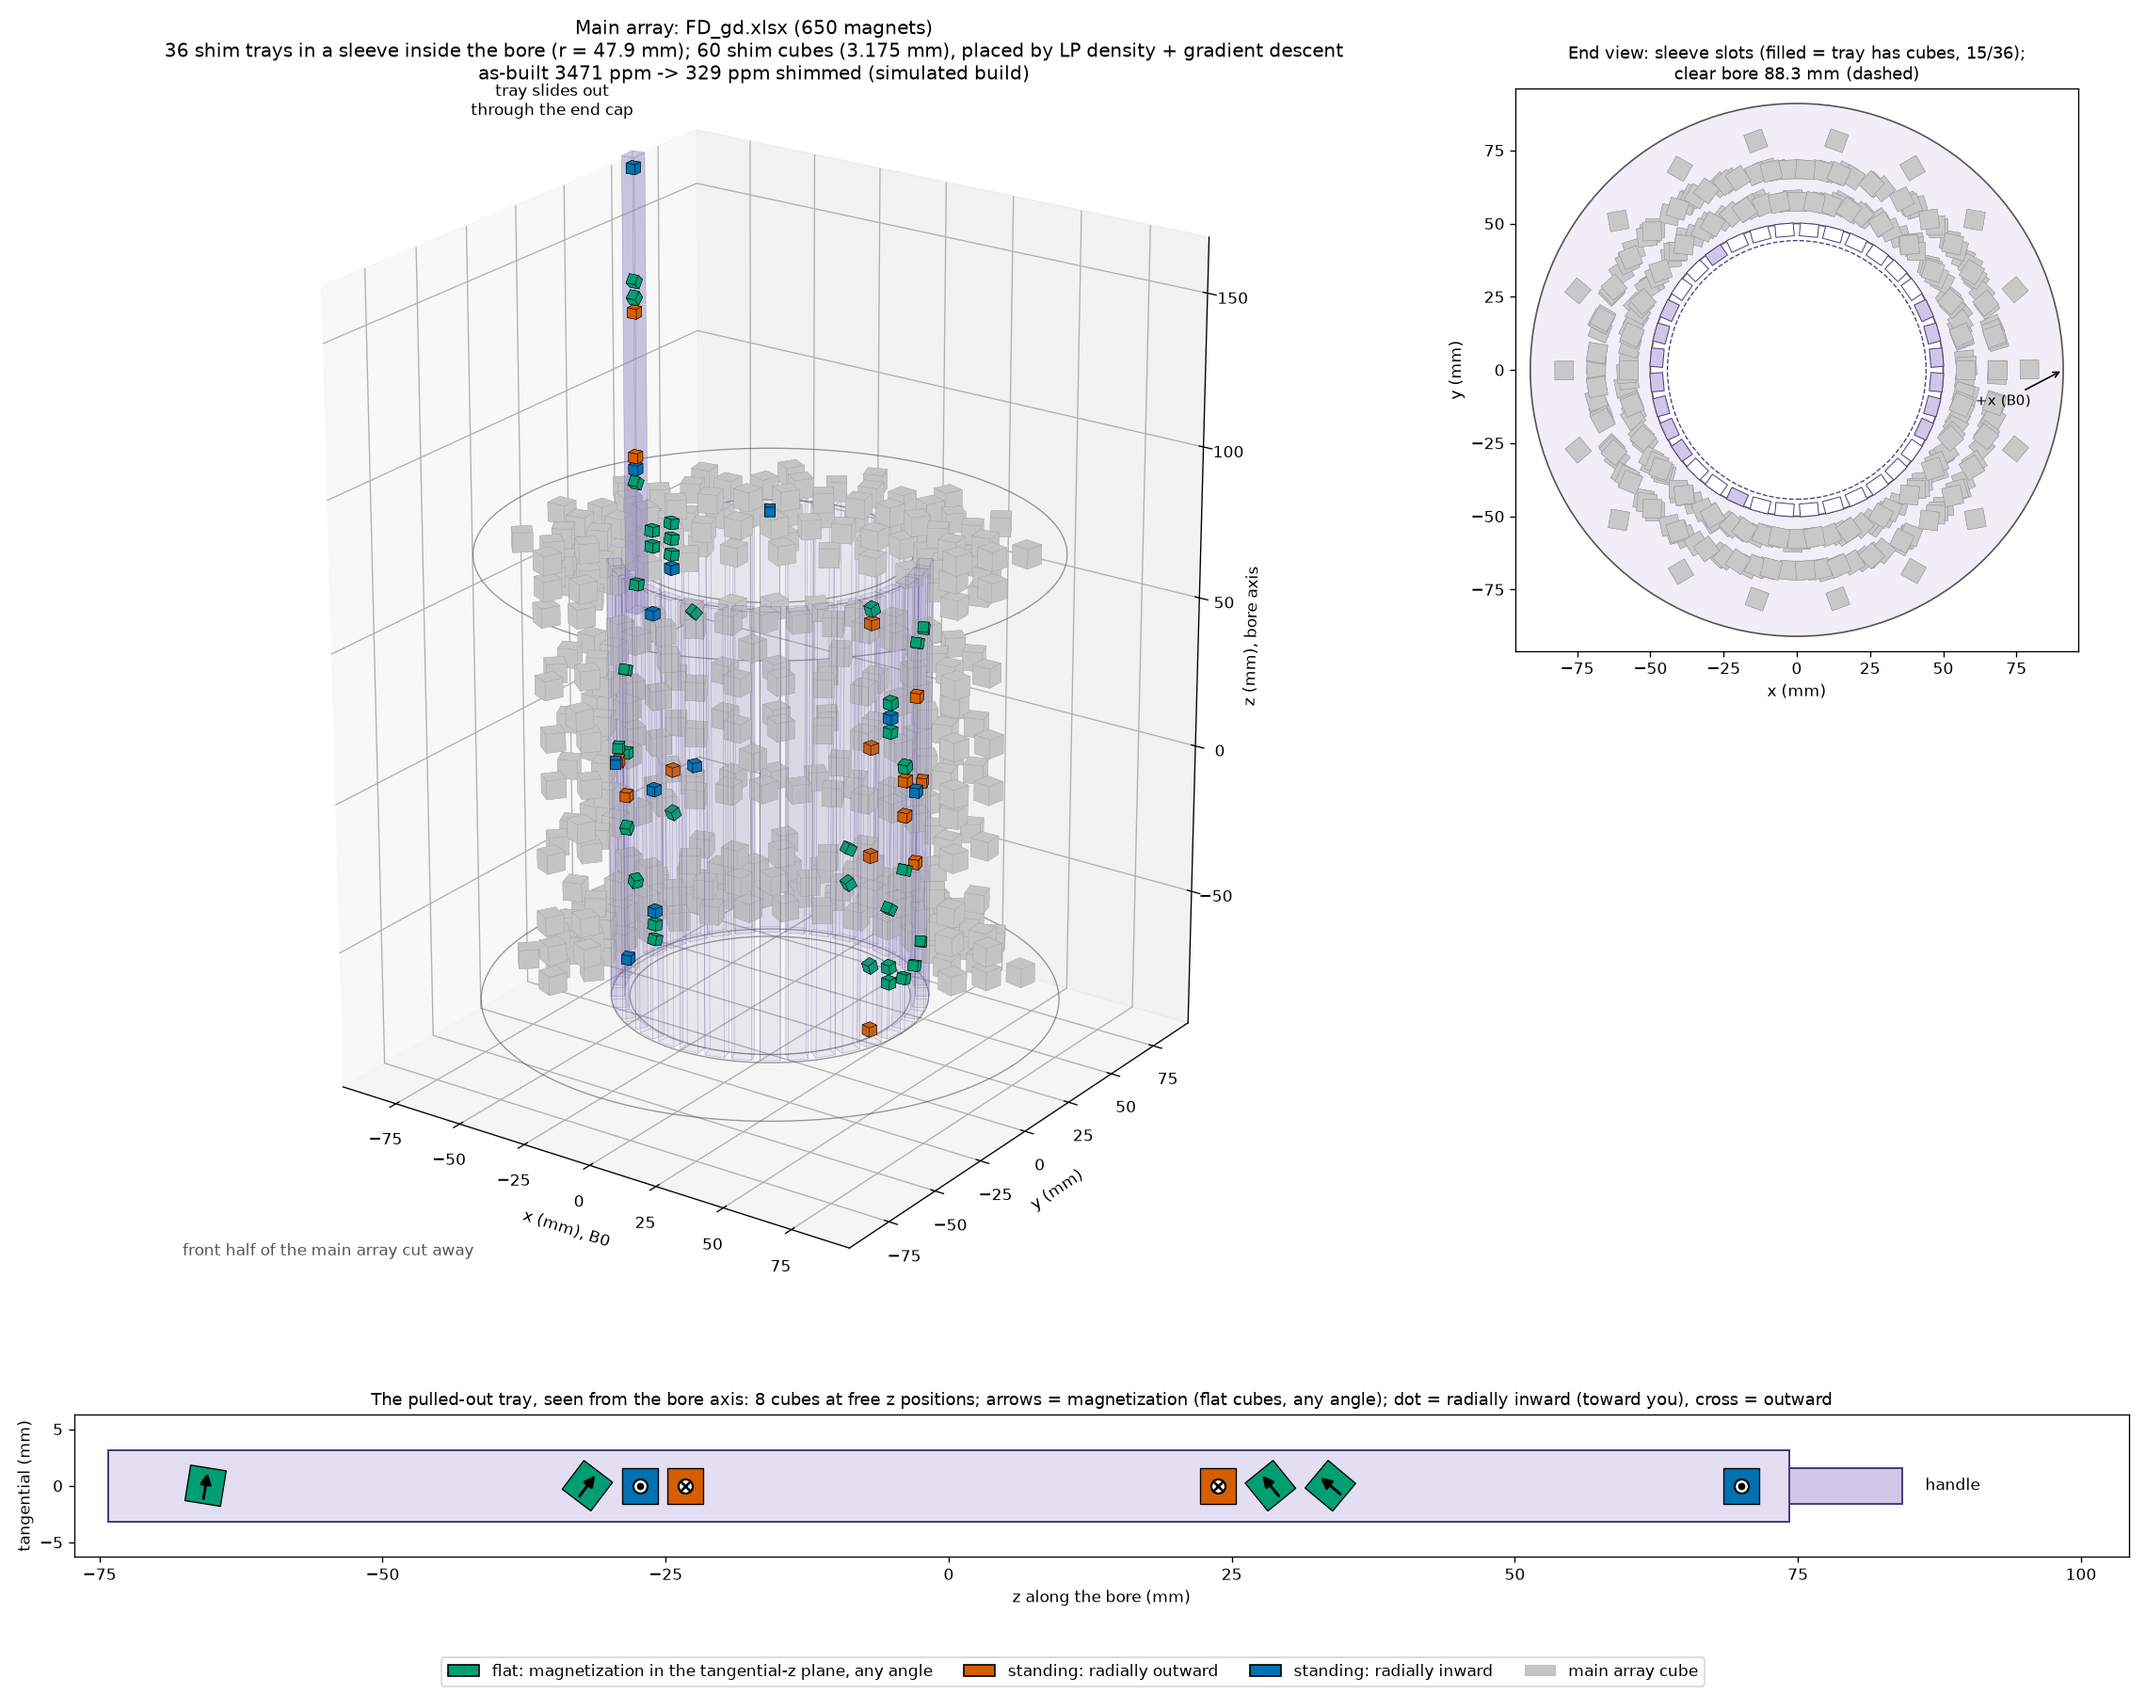
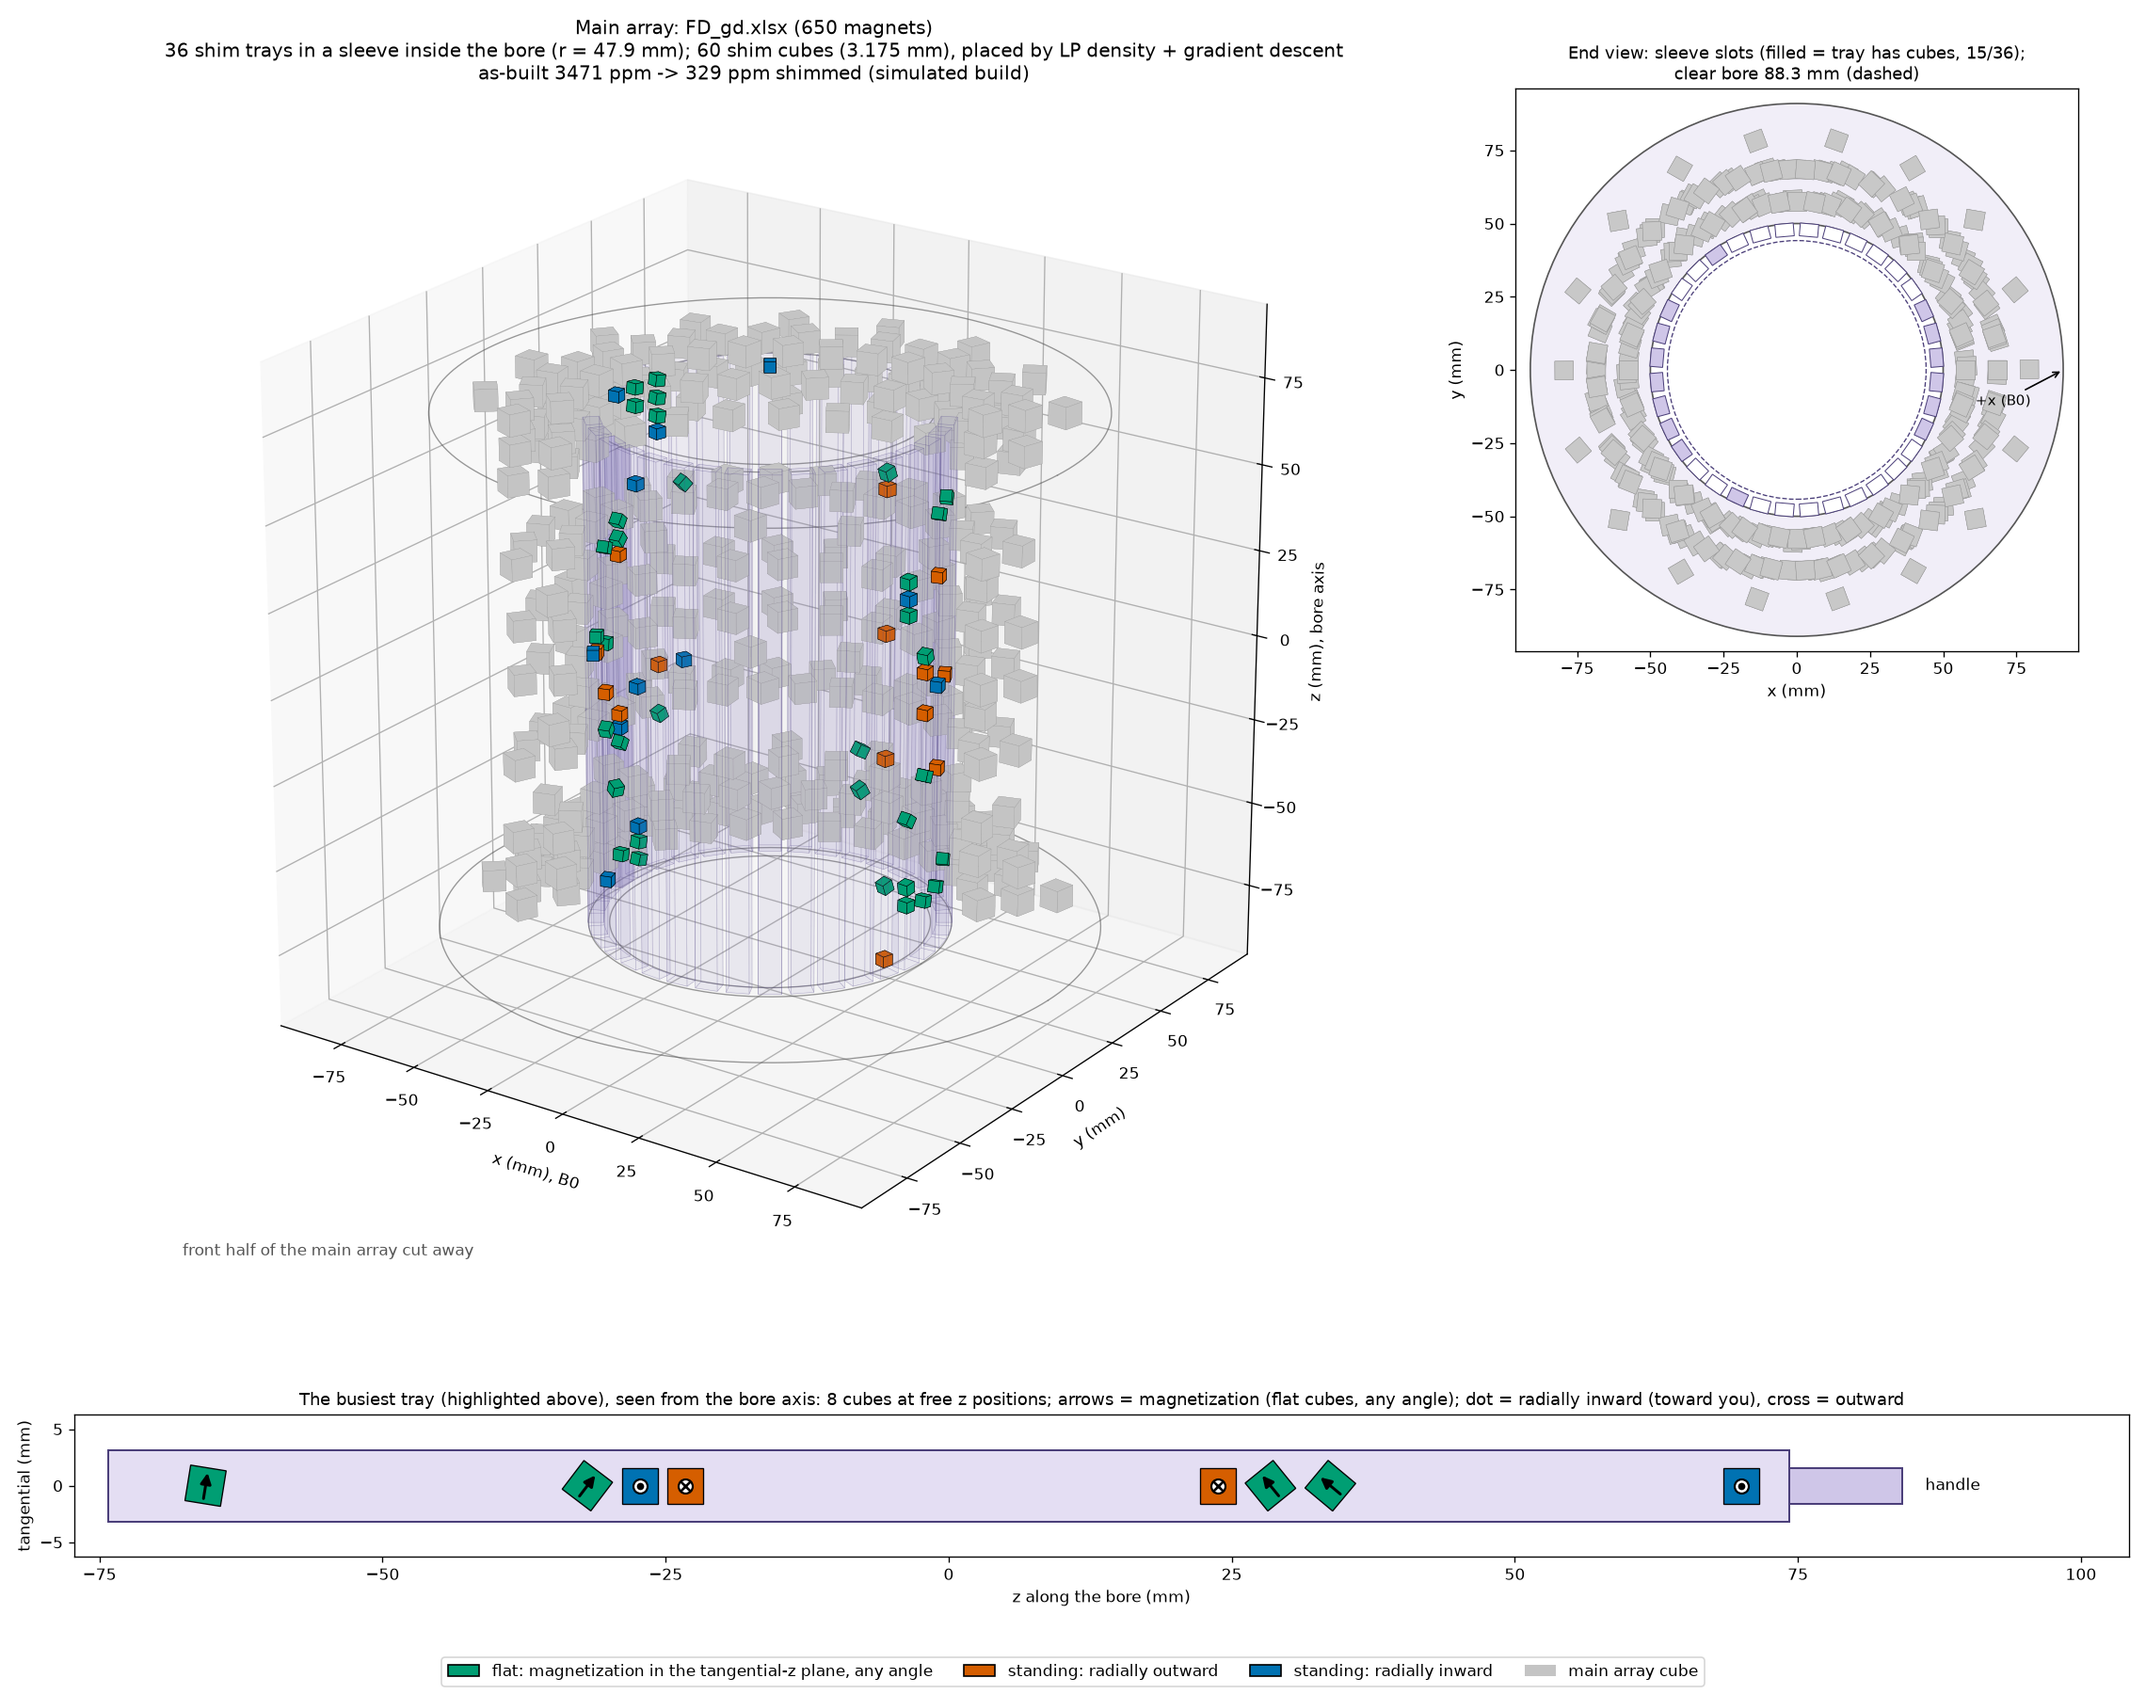
plot_shims.py: draw all trays in place instead of one pulled out

diff --git a/plot_shims.py b/plot_shims.py
@@ -1,7 +1,7 @@
 # -*- coding: utf-8 -*-
 """
 Picture of a shim_design.py solution in the slide-in sleeve: 3D view of the main array (front half cut away) with the
-trays and shim cubes and one tray pulled out, an end view of the sleeve, and the busiest tray seen from the bore axis.
+trays and shim cubes (busiest tray highlighted), an end view of the sleeve, and the busiest tray seen from the bore axis.
 Sleeve dimensions are the make_shim_cad.py defaults.
 
 usage:
@@ -38,7 +38,7 @@ def cube_axes(t, k, p):
     if k != 0: return er, et, ez
     return er, np.cos(p)*et - np.sin(p)*ez, np.sin(p)*et + np.cos(p)*ez   # turned about the radial axis by psi
 
-counts = np.bincount(trs, minlength=ntr); pull = int(np.argmax(counts)); PULL = 120.0; AZ = -55.0
+counts = np.bincount(trs, minlength=ntr); pull = int(np.argmax(counts)); AZ = -55.0
 vdir = np.array([np.cos(np.deg2rad(AZ)), np.sin(np.deg2rad(AZ))])
 
 fig = plt.figure(figsize=(19, 15))
@@ -50,23 +50,21 @@ for _, row in L.iterrows():
     polys += box(row[['X-pos', 'Y-pos', 'Z-pos']].values.astype(float), *frame(np.deg2rad(row['Z-rot'])), a_m/2, a_m/2, a_m/2)
 ax.add_collection3d(Poly3DCollection(polys, facecolors='#c4c4c4', edgecolors='#8a8a8a', linewidths=0.1))
 for t in range(ntr):
-    er, et, ez = frame(th[t]); dz = PULL if t == pull else 0.0
-    ax.add_collection3d(Poly3DCollection(box(rtr*er + dz*ez, er, et, ez, a/2 + 0.6, tw/2, tray_len/2),
-                        facecolors=(0.55, 0.5, 0.75, 0.06 if dz == 0 else 0.25), edgecolors=(0.35, 0.3, 0.55, 0.25), linewidths=0.3))
+    er, et, ez = frame(th[t])
+    ax.add_collection3d(Poly3DCollection(box(rtr*er, er, et, ez, a/2 + 0.6, tw/2, tray_len/2),
+                        facecolors=(0.55, 0.5, 0.75, 0.25 if t == pull else 0.06), edgecolors=(0.35, 0.3, 0.55, 0.25), linewidths=0.3))
 sp, sc = [], []
 for t, zz, k, p in zip(trs, z, kind, psi):
-    er, _, ez = frame(th[t]); dz = PULL if t == pull else 0.0
-    sp += box(rtr*er + (zz + dz)*ez, *cube_axes(th[t], k, p), a/2, a/2, a/2); sc += [COLS[cat(k)]]*6
+    er, _, ez = frame(th[t])
+    sp += box(rtr*er + zz*ez, *cube_axes(th[t], k, p), a/2, a/2, a/2); sc += [COLS[cat(k)]]*6
 ax.add_collection3d(Poly3DCollection(sp, facecolors=sc, edgecolors='k', linewidths=0.3))
 phi = np.linspace(0, 2*np.pi, 200)
 for R_ in (od/2, bore/2, r_clear):
     for zz in (-75, 75):
         ax.plot(R_*np.cos(phi), R_*np.sin(phi), zz, color='#555', lw=0.8, alpha=0.6)
-er = frame(th[pull])[0]
-ax.text(*(rtr*er*1.6 + [0, 0, PULL + tray_len/2 + 8]), 'tray slides out\nthrough the end cap', fontsize=10, ha='center')
 lim = od/2 + 5
-ax.set_xlim(-lim, lim); ax.set_ylim(-lim, lim); ax.set_zlim(-lim, PULL + lim/2)
-ax.set_box_aspect((2*lim, 2*lim, PULL + 1.5*lim)); ax.view_init(elev=22, azim=AZ)
+ax.set_xlim(-lim, lim); ax.set_ylim(-lim, lim); ax.set_zlim(-lim, lim)
+ax.set_box_aspect((2*lim, 2*lim, 2*lim)); ax.view_init(elev=22, azim=AZ)
 ax.set_xlabel('x (mm), B0'); ax.set_ylabel('y (mm)'); ax.set_zlabel('z (mm), bore axis')
 ax.text2D(0.02, 0.02, 'front half of the main array cut away', transform=ax.transAxes, fontsize=10, color='#555')
 ax.set_title(f'Main array: {sys.argv[1].split("/")[-1]} ({len(L)} magnets)\n{ntr} shim trays in a sleeve inside the bore (r = {rtr:.1f} mm); {len(z)} shim cubes ({a:g} mm), '
@@ -110,7 +108,7 @@ for i in sel:
         ax3.plot(zz, 0, marker='.' if k < 0 else 'x', ms=6, color='k', mew=1.6)
 ax3.set_xlim(z0 - 3, z0 + tray_len + 30); ax3.set_ylim(-tw, tw); ax3.set_aspect('equal')
 ax3.set_xlabel('z along the bore (mm)'); ax3.set_ylabel('tangential (mm)')
-ax3.set_title(f'The pulled-out tray, seen from the bore axis: {len(sel)} cubes at free z positions; arrows = magnetization '
+ax3.set_title(f'The busiest tray (highlighted above), seen from the bore axis: {len(sel)} cubes at free z positions; arrows = magnetization '
               f'(flat cubes, any angle); dot = radially inward (toward you), cross = outward', fontsize=11)
 fig.legend(handles=[Patch(fc=COLS['flat'], ec='k', label='flat: magnetization in the tangential-z plane, any angle'),
                     Patch(fc=COLS['out'], ec='k', label='standing: radially outward'),
